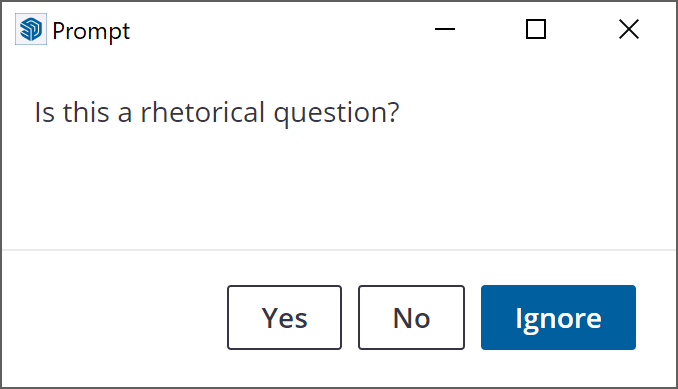
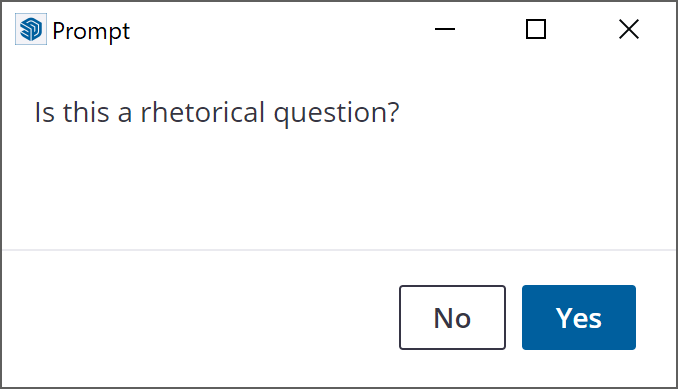
Remove Ignore option

diff --git a/internal/generate_imagery.rb b/internal/generate_imagery.rb
@@ -20,13 +20,10 @@ html = <<-HTML
       </div>
       <div class="modal-footer">
         <button type="button" class="btn btn-outline-dark">
-          Yes
-        </button>
-        <button type="button" class="btn btn-outline-dark">
           No
         </button>
         <button type="button" class="btn btn-primary">
-          Ignore
+          Yes
         </button>
       </div>
     </div>

diff --git a/README.md b/README.md
@@ -61,11 +61,8 @@ Add Modus' classes to your HTML elements to apply the styling. Here are some exa
         <button type="button" class="btn btn-outline-dark">
           No
         </button>
-        <button type="button" class="btn btn-outline-dark">
-          Yes
-        </button>
         <button type="button" class="btn btn-primary">
-          Ignore
+          Yes
         </button>
       </div>
     </div>
